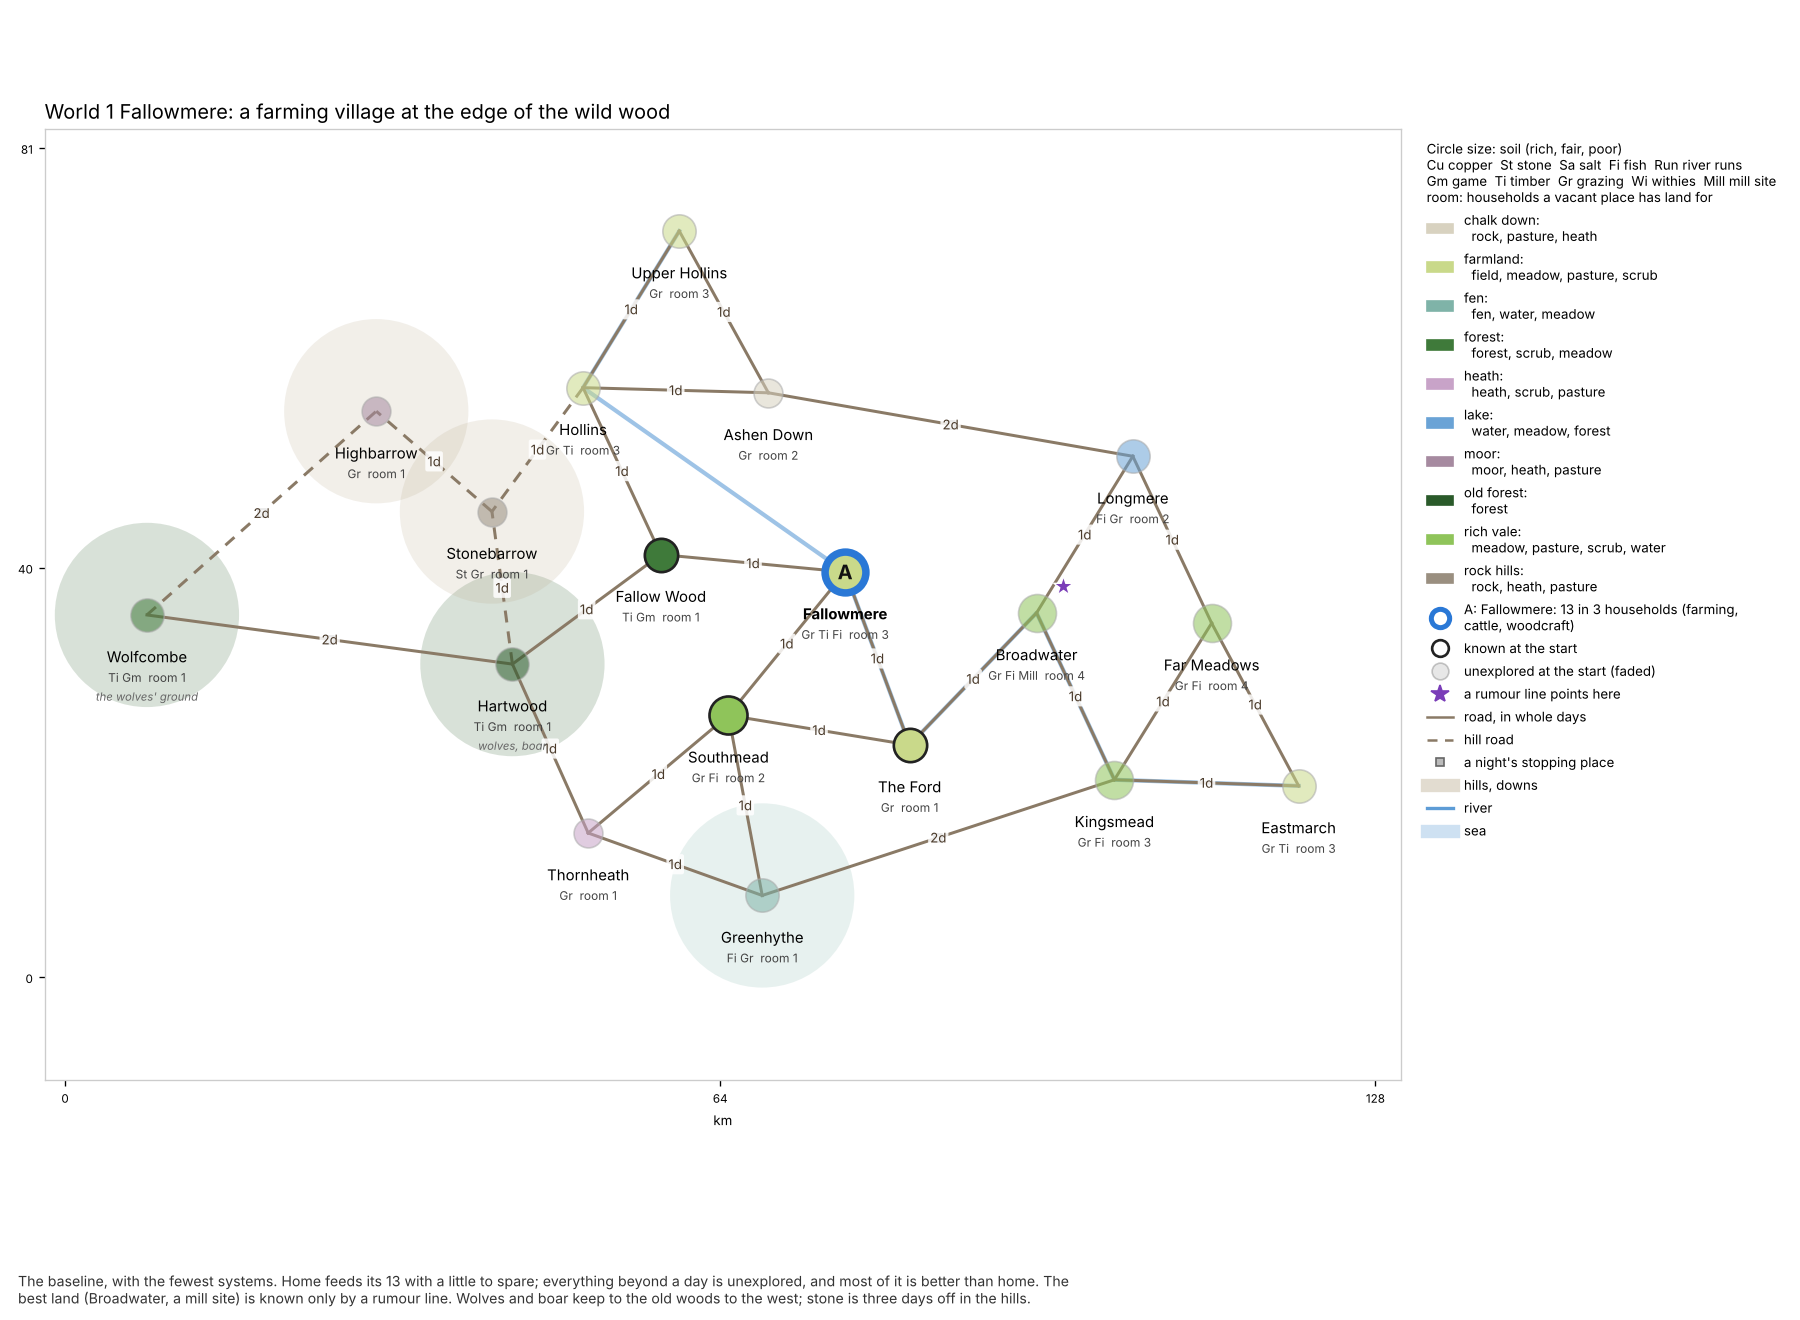
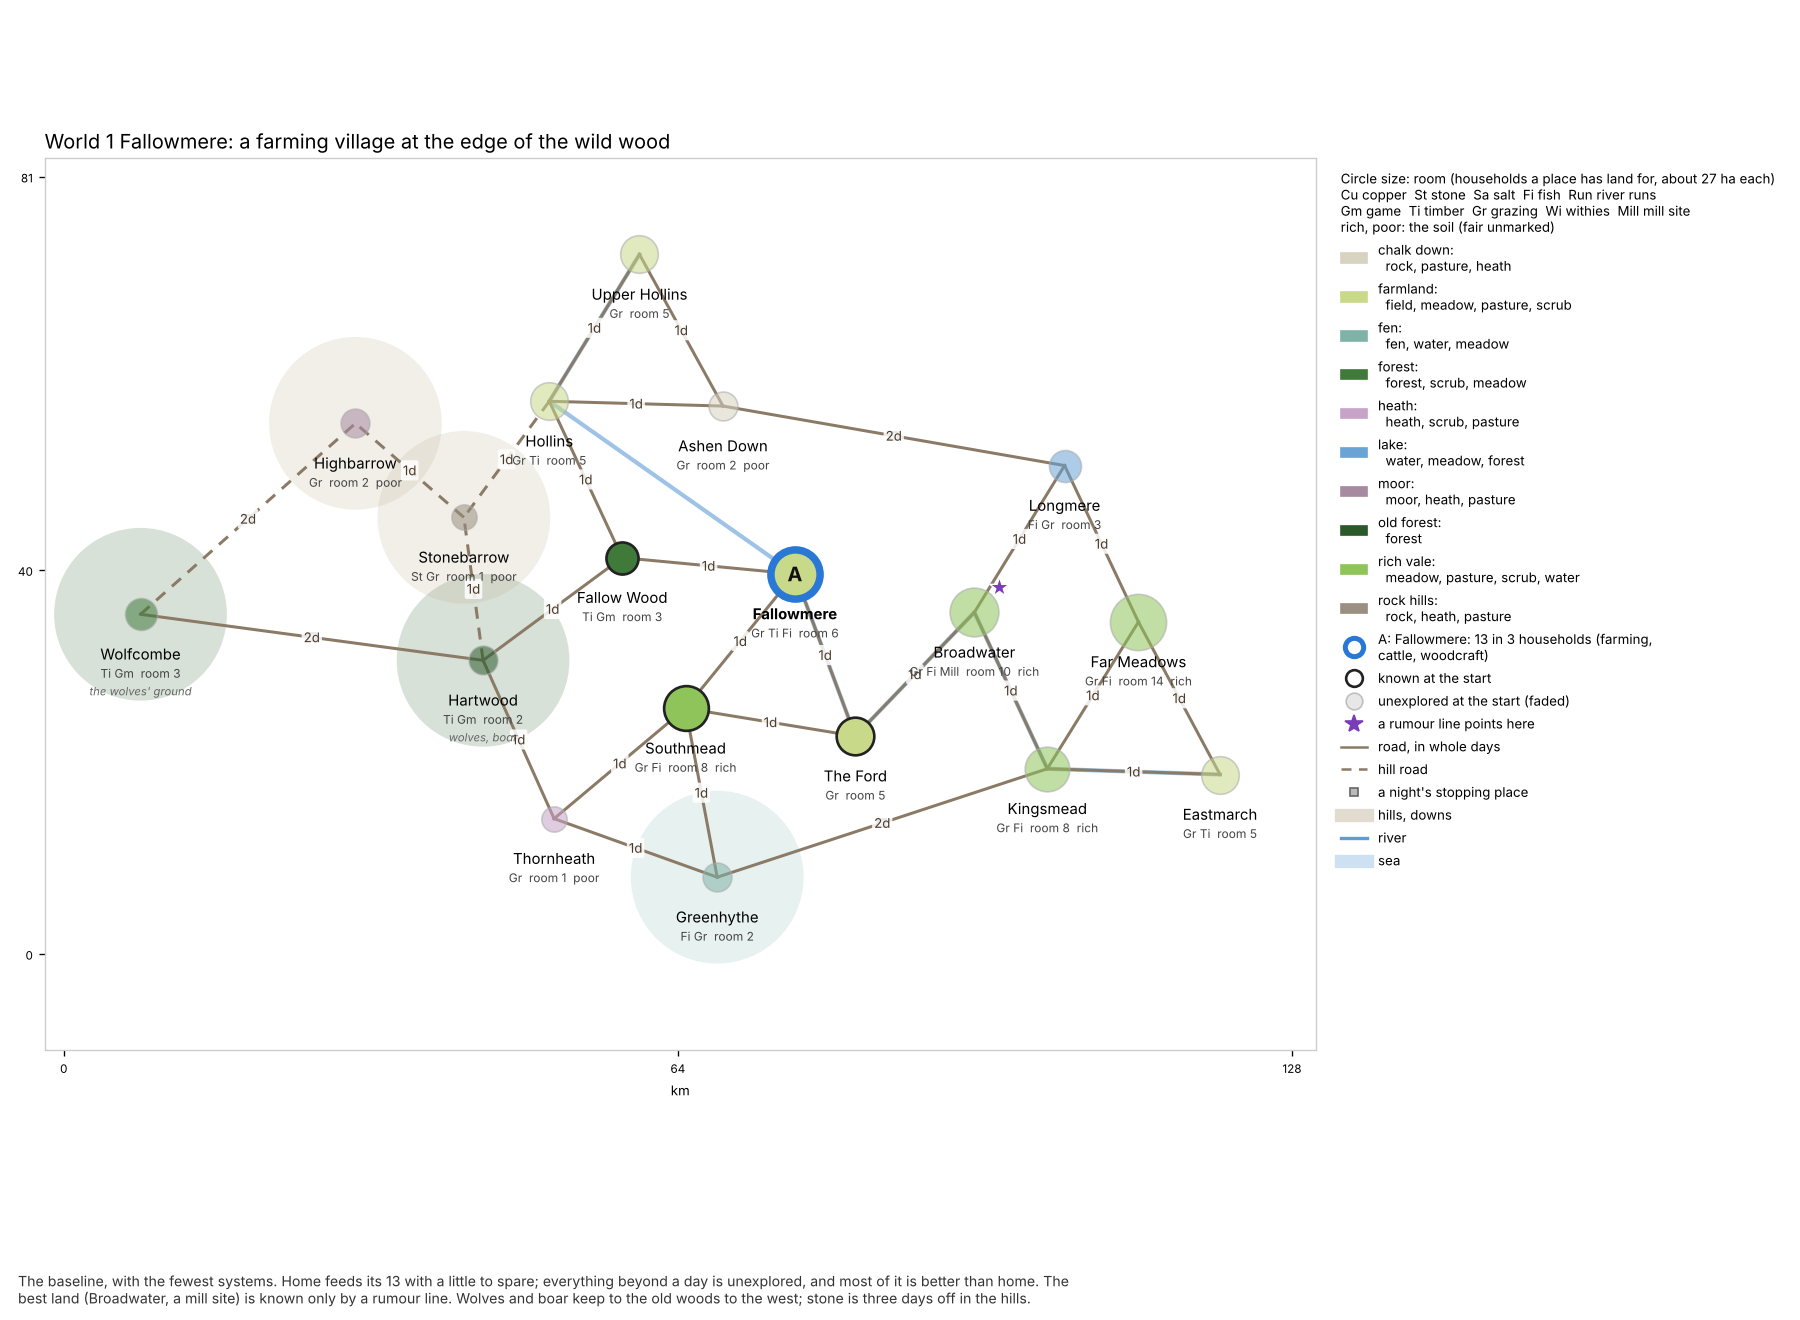
design W-103: monoculture worlds: room explained and rescaled by land and soil, lush deep lands larger; maps sized by room; the crowding ask
Agent: bench
Thread: W-103
Opens: Q-97

diff --git a/docs/review/39_monoculture/design.py b/docs/review/39_monoculture/design.py
@@ -215,6 +215,27 @@ TREE_BY_DESIGN = {   # where a branch is left without a way round, and why
     "M3": "the heights are valley heads joined only by the pass: in winter the way round is through the lowland, 8 days",
     "M5": "each country is reached from the middle by its gate, with one side door; the homes stay 4 days apart",
 }
+# Room (Zach, 23 Nov: "why do so many of these places have so much small room?"). `room` is the households' worth of land the generator
+# lays out at a vacant place (settle.py: 12 cells of about 2 ha each a household, nearest first, within field_km 2.5 km): it becomes
+# the place's parcels, and no field can ever be made outside them. The first draft copied the peoples worlds' 1 to 4. Now by land and
+# soil, with each world's deepest lush land larger, and each home with room to grow at home: a household of room is about 27 ha.
+ROOM_BY_LAND = {("rich vale", "rich"): 8, ("rich vale", "fair"): 6, ("farmland", "rich"): 6, ("farmland", "fair"): 5,
+                ("farmland", "poor"): 3, ("forest", "fair"): 3, ("old forest", "fair"): 2, ("lake", "fair"): 3, ("lake", "poor"): 2,
+                ("lake", "rich"): 4, ("fen", "fair"): 2, ("coast", "fair"): 3, ("coast", "poor"): 1, ("chalk down", "poor"): 2,
+                ("heath", "poor"): 1, ("moor", "poor"): 2, ("rock hills", "poor"): 1}
+ROOM_SET = {   # the lush lands deep in the unexplored, and homes with room to grow
+    "M1": {"Fallowmere": 6, "Far Meadows": 14, "Broadwater": 10},
+    "M2": {"Eelmouth": 5, "Upper Reach": 12, "Highreach": 10},
+    "M3": {"Highfold": 4, "Coldwell": 3, "Lowdale": 14, "Greendale": 8},
+    "M4": {"Oldbury": 10, "Brookfield": 12, "Westcot": 4},
+    "M5": {"Threeways": 12, "Holtmouth": 4, "Highcairn": 4, "Lowbury": 6, "Hartsmoot": 3},
+}
+for _k, _w in WORLDS.items():
+    for _p in _w["places"]:
+        _p["room_draft"] = _p["room"]
+        if _p["room"] or _p["name"] in ROOM_SET.get(_k, {}):
+            _p["room"] = ROOM_SET.get(_k, {}).get(_p["name"], ROOM_BY_LAND.get((_p["land"], _p["soil"]), _p["room"]))
+
 for _k, _r in CROSS.items():
     WORLDS[_k]["tree_roads"] = list(WORLDS[_k]["roads"])
     WORLDS[_k]["roads"] = WORLDS[_k]["roads"] + _r

diff --git a/docs/review/39_monoculture/draw.py b/docs/review/39_monoculture/draw.py
@@ -52,7 +52,7 @@ def draw(key, w):
                 bbox=dict(boxstyle="round,pad=0.15", fc="white", ec="none", alpha=0.85))
     for p in w["places"]:
         col = D.LAND[p["land"]][1]
-        size = {"rich": 520, "fair": 400, "poor": 300}[p["soil"]]
+        size = 160 + 70 * max(p["room"], 0)
         home = p["kind"].startswith("home:")
         g = p["kind"].split(":")[1] if home else None
         if home:
@@ -73,6 +73,8 @@ def draw(key, w):
         res = " ".join(RES[r] for r in p["res"] if r in RES)
         if p["room"]:
             res += f"  room {p['room']}"
+        if p["soil"] != "fair":
+            res += f"  {p['soil']}"
         ax.text(p["x"], p["y"] - 3.2, p["name"], fontsize=9, weight="bold" if home else "normal", ha="center", va="top", zorder=4)
         if res:
             ax.text(p["x"], p["y"] - 5.4, res, fontsize=7.2, color="#444", ha="center", va="top", zorder=4)
@@ -105,8 +107,8 @@ def draw(key, w):
            Line2D([], [], color="#b8a88a", lw=8, alpha=0.4, label="hills, downs"), Line2D([], [], color="#5d9cd6", lw=2, label="river"),
            Line2D([], [], color="#5d9cd6", lw=8, alpha=0.3, label="sea")]
     leg = ax.legend(handles=h1 + h2, loc="upper left", bbox_to_anchor=(1.01, 1.0), frameon=False, fontsize=8,
-                    title="Circle size: soil (rich, fair, poor)\nCu copper  St stone  Sa salt  Fi fish  Run river runs\n"
-                          "Gm game  Ti timber  Gr grazing  Wi withies  Mill mill site\nroom: households a vacant place has land for",
+                    title="Circle size: room (households a place has land for, about 27 ha each)\nCu copper  St stone  Sa salt  Fi fish  Run river runs\n"
+                          "Gm game  Ti timber  Gr grazing  Wi withies  Mill mill site\nrich, poor: the soil (fair unmarked)",
                     title_fontsize=8)
     leg._legend_box.align = "left"
     ax.set_title(w["title"], loc="left", fontsize=12)

diff --git a/docs/cybertron2/proposals/monoculture_five_worlds.md b/docs/cybertron2/proposals/monoculture_five_worlds.md
@@ -199,24 +199,24 @@ food through winter, have children, found households and settle new land.
 
 | Place | Days from home | Land | Resources | Room (households) | Note |
 |---|---|---|---|---|---|
-| **Fallowmere** (home) | 0 | farmland | grass, wood, fish (shallows) | 3 | known |
-| Fallow Wood | 1 | forest | wood, game | 1 | known |
-| Southmead | 1 | rich vale | grass, fish | 2 | known; vacant meadow, the first easy step |
-| The Ford | 1 | farmland | grass | 1 | known; the way across the river |
-| Broadwater | 2 | rich vale | grass, fish, mill site | 4 | the best land; a rumour line to Ashby's head |
-| Hollins | 2 | farmland | grass, wood | 3 | |
-| Greenhythe | 2 | fen | fish, grass | 1 | eels and withies; wet |
-| Hartwood | 2 | old forest | wood, game | 1 | wolves and boar; the legendary boar |
+| **Fallowmere** (home) | 0 | farmland | grass, wood, fish (shallows) | 6 | known |
+| Fallow Wood | 1 | forest | wood, game | 3 | known |
+| Southmead | 1 | rich vale | grass, fish | 8 | known; vacant meadow, the first easy step |
+| The Ford | 1 | farmland | grass | 5 | known; the way across the river |
+| Broadwater | 2 | rich vale | grass, fish, mill site | 10 | the best land; a rumour line to Ashby's head |
+| Hollins | 2 | farmland | grass, wood | 5 | |
+| Greenhythe | 2 | fen | fish, grass | 2 | eels and withies; wet |
+| Hartwood | 2 | old forest | wood, game | 2 | wolves and boar; the legendary boar |
 | Thornheath | 2 | heath | grass | 1 | poor |
-| Longmere | 3 | lake | fish, grass | 2 | a lake stock that can be fished down |
+| Longmere | 3 | lake | fish, grass | 3 | a lake stock that can be fished down |
 | Stonebarrow | 3 | rock hills | quarry, grass | 1 | stone |
-| Upper Hollins | 3 | farmland | grass | 3 | |
-| Kingsmead | 3 | rich vale | grass, fish | 3 | |
+| Upper Hollins | 3 | farmland | grass | 5 | |
+| Kingsmead | 3 | rich vale | grass, fish | 8 | |
 | Ashen Down | 3 | chalk down | grass | 2 | sheep country without sheep: pasture for cattle |
-| Wolfcombe | 4 | forest | wood, game | 1 | the wolves' ground |
-| Far Meadows | 4 | rich vale | grass, fish | 4 | |
-| Highbarrow | 4 | moor | grass | 1 | |
-| Eastmarch | 4 | farmland | grass, wood | 3 | |
+| Wolfcombe | 4 | forest | wood, game | 3 | the wolves' ground |
+| Far Meadows | 4 | rich vale | grass, fish | 14 | |
+| Highbarrow | 4 | moor | grass | 2 | |
+| Eastmarch | 4 | farmland | grass, wood | 5 | |
 
 **Capacity (to check with the ladder).**
 - Home at "standing" feeds about 15, and "worked" (manure, rotation, the plough) about 25.
@@ -258,22 +258,22 @@ farm, which one founder knows from her childhood, and finding cattle.
 
 | Place | Days from home | Land | Resources | Room | Note |
 |---|---|---|---|---|---|
-| **Eelmouth** (home) | 0 | coast | salt (brine spring), fish (runs, shallows) | 3 | known; the weir's reach |
+| **Eelmouth** (home) | 0 | coast | salt (brine spring), fish (runs, shallows) | 5 | known; the weir's reach |
 | The Saltings | 1 | coast | salt, fish | 1 | known |
-| Withy Holt | 1 | fen | fish, grass | 1 | known; willow |
-| Kingsford | 2 | farmland | grass, fish | 3 | the first good field land; the Brook wife's rumour |
-| Reedmere | 2 | fen | fish, grass | 1 | fowl and eels |
-| Middlemere | 2 | lake | fish, grass | 2 | a second fishery, its own stock (one stock per water body) |
-| Oakhanger | 2 | forest | wood, game | 1 | timber for the weir's sections |
-| Upper Reach | 3 | rich vale | grass, fish, mill site | 4 | the best farm land, on the river; runs pass it |
+| Withy Holt | 1 | fen | fish, grass | 2 | known; willow |
+| Kingsford | 2 | farmland | grass, fish | 5 | the first good field land; the Brook wife's rumour |
+| Reedmere | 2 | fen | fish, grass | 2 | fowl and eels |
+| Middlemere | 2 | lake | fish, grass | 3 | a second fishery, its own stock (one stock per water body) |
+| Oakhanger | 2 | forest | wood, game | 3 | timber for the weir's sections |
+| Upper Reach | 3 | rich vale | grass, fish, mill site | 12 | the best farm land, on the river; runs pass it |
 | Barrow Down | 3 | chalk down | grass | 2 | the feral herd |
-| Ashcombe | 3 | forest | wood, game | 1 | |
+| Ashcombe | 3 | forest | wood, game | 3 | |
 | Greyhythe | 3 | coast | fish, salt | 1 | a second salt shore along the coast |
-| Long Acre | 3 | farmland | grass | 3 | |
+| Long Acre | 3 | farmland | grass | 5 | |
 | Fernhill | 4 | heath | grass | 1 | |
-| Highreach | 4 | rich vale | grass, fish | 3 | the salmon's spawning reach |
+| Highreach | 4 | rich vale | grass, fish | 10 | the salmon's spawning reach |
 | Coldstone | 4 | rock hills | quarry, seam | 1 | copper; nobody knows smelting |
-| Mere End | 4 | lake | fish | 1 | |
+| Mere End | 4 | lake | fish | 2 | |
 | (four stops and wild nodes on the long roads) | 1 to 3 | mixed | | 0 | |
 
 **Capacity.**
@@ -324,22 +324,22 @@ Down the valleys, three to four days off and unexplored, lies the lowland.
 
 | Place | Days | Land | Resources | Room | Note |
 |---|---|---|---|---|---|
-| **Highfold** (home A) | 0 | upland pasture | grass | 2 | known |
-| **Coldwell** (home B) | 1 over the pass | rock hills | quarry, grass | 2 | known |
+| **Highfold** (home A) | 0 | upland pasture | grass | 4 | known |
+| **Coldwell** (home B) | 1 over the pass | rock hills | quarry, grass | 3 | known |
 | The Pass | between them | mountain | | 0 | known; dangerous in winter |
-| High Shieling | 1 from Highfold | moor | grass | 1 | known; summer grazing |
+| High Shieling | 1 from Highfold | moor | grass | 2 | known; summer grazing |
 | Copper Gill | 1 from Coldwell | rock hills | seam | 0 | known |
-| Tarn Beck | 1 | lake | fish | 1 | known |
-| Lower Fold | 2 down valley A | hills | grass, wood | 2 | |
-| Birkdale | 2 down valley B | forest | wood, game | 1 | wolves, bear |
+| Tarn Beck | 1 | lake | fish | 2 | known |
+| Lower Fold | 2 down valley A | hills | grass, wood | 3 | |
+| Birkdale | 2 down valley B | forest | wood, game | 3 | wolves, bear |
 | Wolf Scar | 2 | rock hills | game | 0 | |
-| Greendale | 3 down valley A | rich vale | grass, fish | 3 | the first good farm land; rumour line to Fell |
-| Mill Foss | 3 down valley B | river terrace | grass, fish, mill site | 3 | |
-| Oak Clough | 3 | forest | wood, game | 1 | |
-| Lowdale | 4 | rich vale | grass, fish | 4 | where both valleys' rivers meet: the lowland's heart |
-| Fordham | 4 | farmland | grass | 3 | |
-| Mosslake | 4 | lake | fish, grass | 2 | |
-| Southmoss | 4 | fen | fish | 1 | |
+| Greendale | 3 down valley A | rich vale | grass, fish | 8 | the first good farm land; rumour line to Fell |
+| Mill Foss | 3 down valley B | river terrace | grass, fish, mill site | 5 | |
+| Oak Clough | 3 | forest | wood, game | 3 | |
+| Lowdale | 4 | rich vale | grass, fish | 14 | where both valleys' rivers meet: the lowland's heart |
+| Fordham | 4 | farmland | grass | 5 | |
+| Mosslake | 4 | lake | fish, grass | 3 | |
+| Southmoss | 4 | fen | fish | 2 | |
 
 **Capacity.**
 - The two hamlets at "standing" feed about 17, if the hay is made.
@@ -388,15 +388,15 @@ elders know dies with them unless they pass it on.
 
 | Place | Days | Land | Resources | Room | Known to |
 |---|---|---|---|---|---|
-| **Oldbury** (home) | 0 | farmland | grass, fish, mill site | 8 (4 held, 4 empty houses) | all |
-| Oldbury Down | 1 | chalk down | grass | 1 | all |
-| Clay Wood | 1 | forest | wood, game | 1 | all |
-| Springhead | 1 | rich vale | grass, fish | 2 | all |
-| Netherby | 2 | farmland | grass | 3 | elders: an empty hamlet, two standing houses |
+| **Oldbury** (home) | 0 | farmland | grass, fish, mill site | 10 | all |
+| Oldbury Down | 1 | chalk down | grass | 2 | all |
+| Clay Wood | 1 | forest | wood, game | 3 | all |
+| Springhead | 1 | rich vale | grass, fish | 8 | all |
+| Netherby | 2 | farmland | grass | 5 | elders: an empty hamlet, two standing houses |
 | Chalkpit | 2 | chalk down | quarry | 0 | elders |
-| Hamwell | 3 | farmland | grass, fish | 3 | elders: empty, a ruined mill |
+| Hamwell | 3 | farmland | grass, fish | 5 | elders: empty, a ruined mill |
 | Coldharbour | 3 | heath | grass | 1 | elders |
-| **Westcot** | 3 | river terrace | grass, fish | 2 | **nobody**: a second remnant family of 3 (a couple and a youth son) survives here, the same people under the same model, unexplored to Oldbury and Oldbury to them |
+| **Westcot** | 3 | river terrace | grass, fish | 4 | **nobody**: a second remnant family of 3 (a couple and a youth son) survives here, the same people under the same model, unexplored to Oldbury and Oldbury to them |
 | (8 more vacant places at 2 to 4 days) | | vale, wood, down, fen | | 1 to 3 | nobody |
 
 **Capacity.**
@@ -521,6 +521,56 @@ At lifespan 64 the acting people (youths, adults and elders) are about 70% of th
     systems).
   - *Default:* World 1.
 
+## Room: how much land each place has
+
+`room` is the households' worth of land the generator lays out at a vacant place (`landgen/settle.py` `allocate_vacant`: 12 cells of
+about 2.25 ha each per household, about 27 ha, nearest first within `field_km` 2.5 km of the place). That land becomes the place's
+parcels, and **no field can ever be made outside them**: clearing changes the cover of a parcel that exists, never adds one. So a
+place's room is the most households it can ever farm. Hunting and foraging reach further, into the wild layer's ring and blocks.
+
+The first draft gave most places room 1 to 4, copied from the peoples worlds without a reason of its own. Land does not limit it:
+2.5 km of reach is about 870 cells, room for about 50 households less water and rock. A place a day's walk from the next would in
+fact hold a village of 10 to 40 households. Zach (23 Nov): "why do so many of these places have so much small room? Could there not
+be more unexplored lush or larger places".
+
+**Room now** (design.py `ROOM_BY_LAND`, `ROOM_SET`):
+
+| Land | Room |
+|---|---|
+| rich vale, rich soil | 8 |
+| rich vale, fair soil; farmland, rich soil | 6 |
+| farmland, fair soil | 5 |
+| forest (wood to clear), lake, coast with fair soil | 3 |
+| old forest, fen, chalk down, moor | 2 |
+| heath, rock hills, coast with poor soil | 1 |
+
+Each world also has its deepest lush lands larger:
+- World 1: Far Meadows 14, Broadwater 10;
+- World 2: Upper Reach 12, Highreach 10;
+- World 3: Lowdale 14, Greendale 8;
+- World 4: Brookfield 12;
+- World 5: Threeways 12.
+
+Each home has room to grow at home: Fallowmere 6, Eelmouth 5, Oldbury 10, and so on.
+
+| World | Households of room: draft → now |
+|---|---|
+| 1 Fallowmere | 37 → 85 |
+| 2 Eelmouth Reach | 29 → 58 |
+| 3 Highfold | 26 → 57 |
+| 4 Oldbury | 35 → 74 |
+| 5 The Scattering | 44 → 93 |
+
+What this changes:
+- Land no longer caps growth within 200 days. What a people grows to is set by its practice: food, keeping, labour and the
+  winter. That is the intent (descendants_benchmark.md §3: the headroom is reached by practice).
+- A people can grow by filling one rich place, not only by scattering over many small ones. Whether they concentrate or spread is
+  now their choice.
+- **The open cost** (Q-97): a place of room 12 to 14 could hold 60 or more people at one node. The engine's proposed limit is about
+  15 to 20 people a node (spec/world/places.md), not enforced, and talk at a node grows with the square of those present.
+- The capacity figures in §2 to §6 ("the whole map holds about 130") were guessed on the draft's room. They are to be redone with
+  the capacity ladder before any run.
+
 ## Road networks: meshes by default, trees only by design
 
 Zach (23 Nov): "This feels a lot like a tree or things traveling away from a root node ... with no ways to travel between other nodes
@@ -567,6 +617,8 @@ docs/review/39_monoculture/ (made by `world0_map.py` and `draw.py` from `design.
 
 ## History
 
+- 23 Nov 2026 (later): Zach asked why so many places had so little room. Room explained and rescaled by land and soil, with
+  each world's deepest lush land larger (§Room); the map circles now show room. Every world's room about doubled.
 - 23 Nov 2026 (later): Zach noted the maps were trees from home. Cross-roads added to every world (§Road networks); trees kept only
   where the land is the reason, and named.
 - 23 Nov 2026 (later): maps drawn (§Maps). World 0's map found copper at w4, a day from Highpool; World 5's map drawn new

diff --git a/docs/cybertron2/OPEN.md b/docs/cybertron2/OPEN.md
@@ -138,6 +138,7 @@ takes L-100 and up. Rows below L-60 keep their numbers.
 | Q-94 | **A kin rule: no partnering or trying for children between parent and child or between siblings (not in the engine; the Scattering world rests on it)** | | bench |
 | ~~Q-95~~ | **(Closed 23 Nov: World 0 (Highpool and Middleham) designed in monoculture_five_worlds.md §1a.)** **Which of the five monoculture worlds to build first (Fallowmere, Eelmouth Reach, Highfold, Oldbury, the Scattering)** | | bench |
 | Q-96 | **Whether 'road networks are meshes by default, a tree or dead end only where the land is the reason, and named' becomes a rule for every world designed, in docs/scenario_design.md** | | bench |
+| Q-97 | **How many people one place may hold: the engine's proposed 15 to 20 a node (talk grows with the square of those present) against monoculture places with room for 12 to 14 households (60 or more people)** | | bench |
 
 ## Offers and promises
 

diff --git a/docs/cybertron2/items/Q-97.md b/docs/cybertron2/items/Q-97.md
@@ -1,0 +1,15 @@
+---
+id: Q-97
+kind: ask
+title: "How many people one place may hold: the engine's proposed 15 to 20 a node (talk grows with the square of those present) against monoculture places with room for 12 to 14 households (60 or more people)"
+owner: bench
+state: open
+created: "2026-11-23"
+seq: 106
+parent: ["W-103"]
+default: no cap; measured in World 0's bot arm
+default_on: "2026-11-30"
+recommend: no hard cap; measure the cost and the talk at a crowded node in the first long run's bot arm, then decide
+table: asks
+---
+**How many people one place may hold: the engine's proposed 15 to 20 a node (talk grows with the square of those present) against monoculture places with room for 12 to 14 households (60 or more people)**
